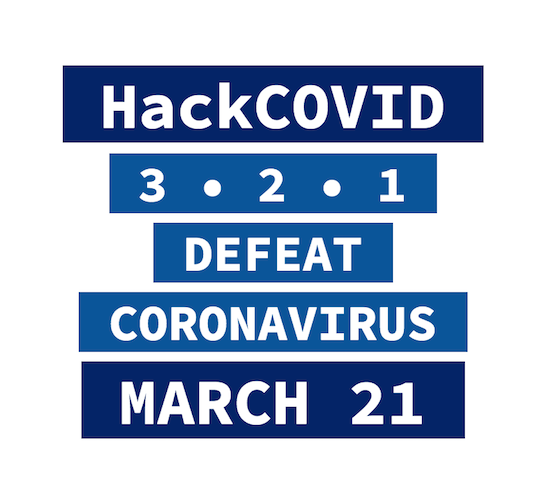
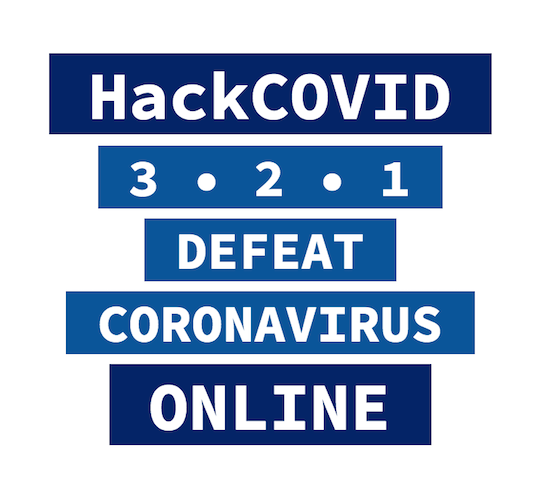
Improved UI/UX and organized images

Changed region(s): [[0.0892, 0.09, 0.9219, 0.9]]

diff --git a/index.html b/index.html
@@ -39,7 +39,7 @@
     <!-- INFORMATION -->
     <section id = "showcase">
       <div class = "container">
-        <img src = "hc.png">
+        <img src = "HackCOVID.png">
         <form>
           <input class = "clickbutton" type = "button" value = "   >> SIGN UP HERE <<   " onclick = "window.open('https://scottyshaw.typeform.com/to/rEKgZX', '_blank')" target = "_blank"/>
         </form>
